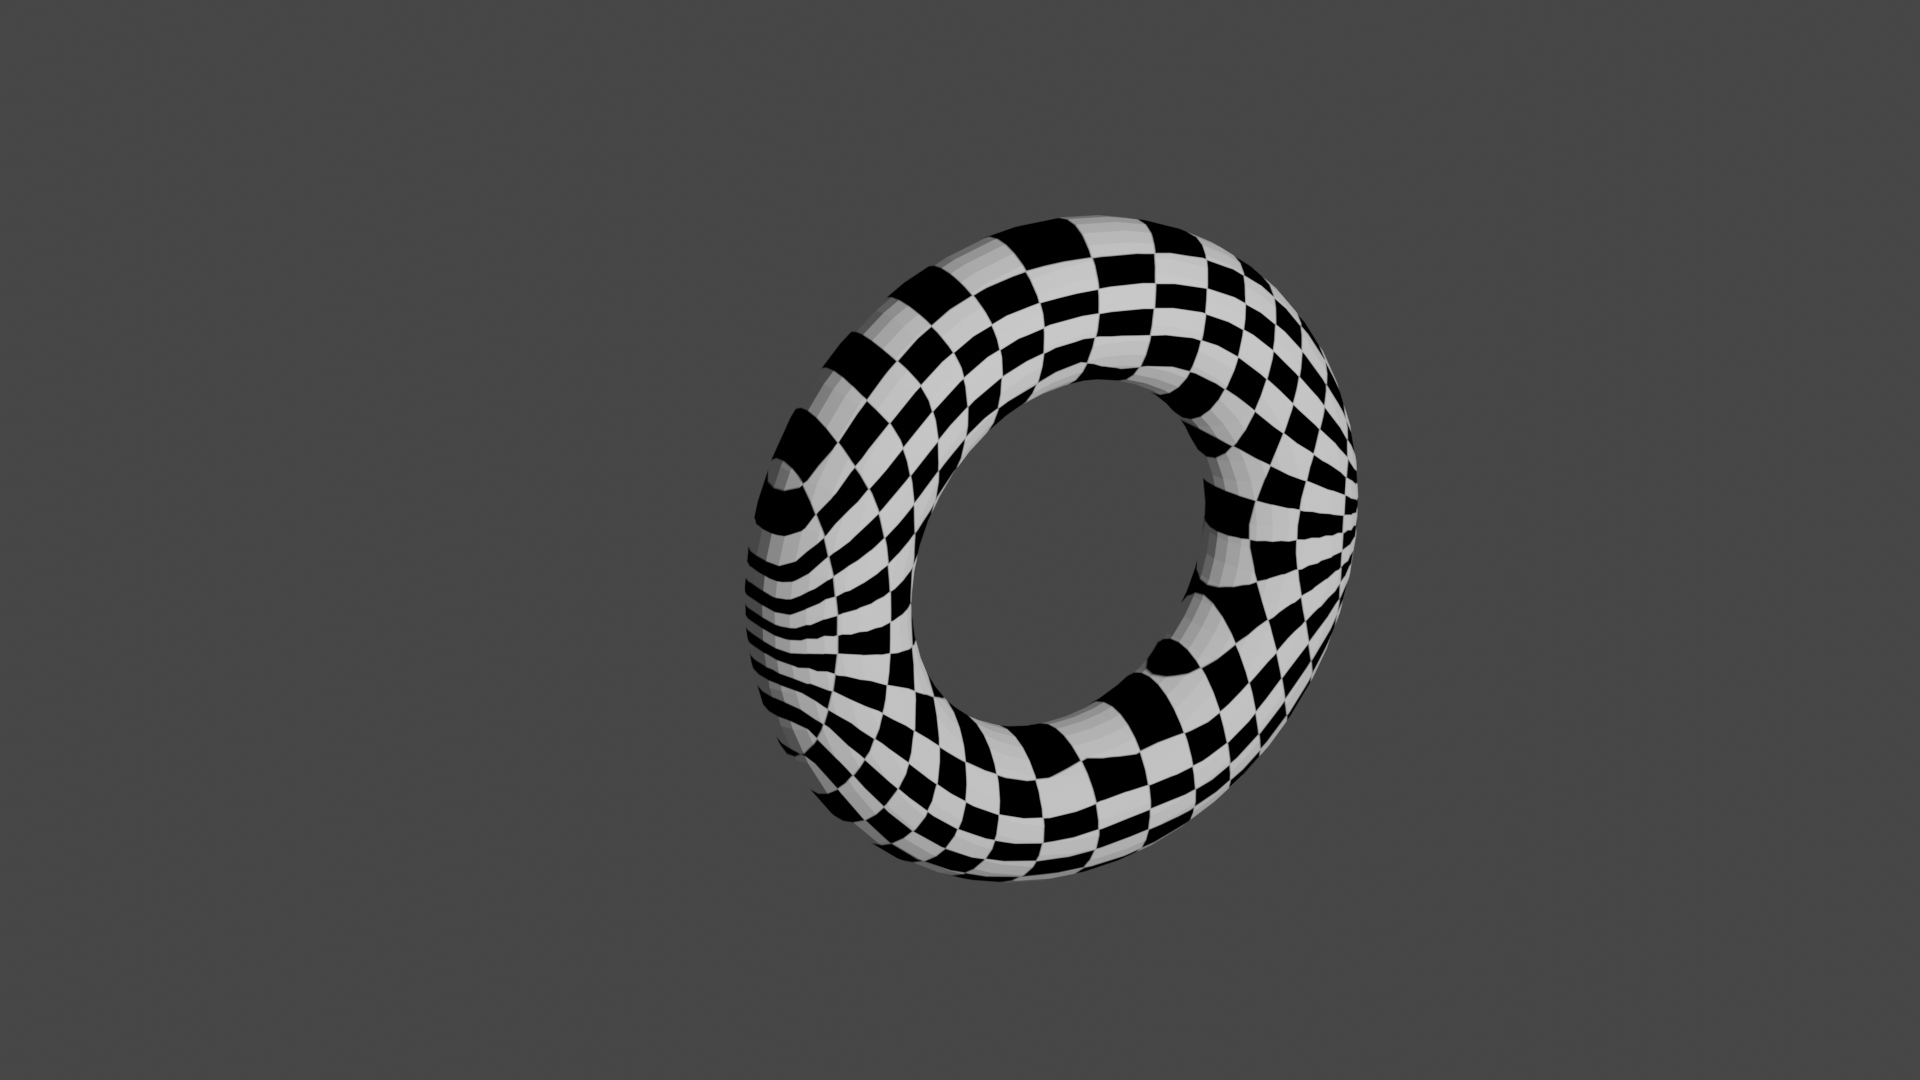
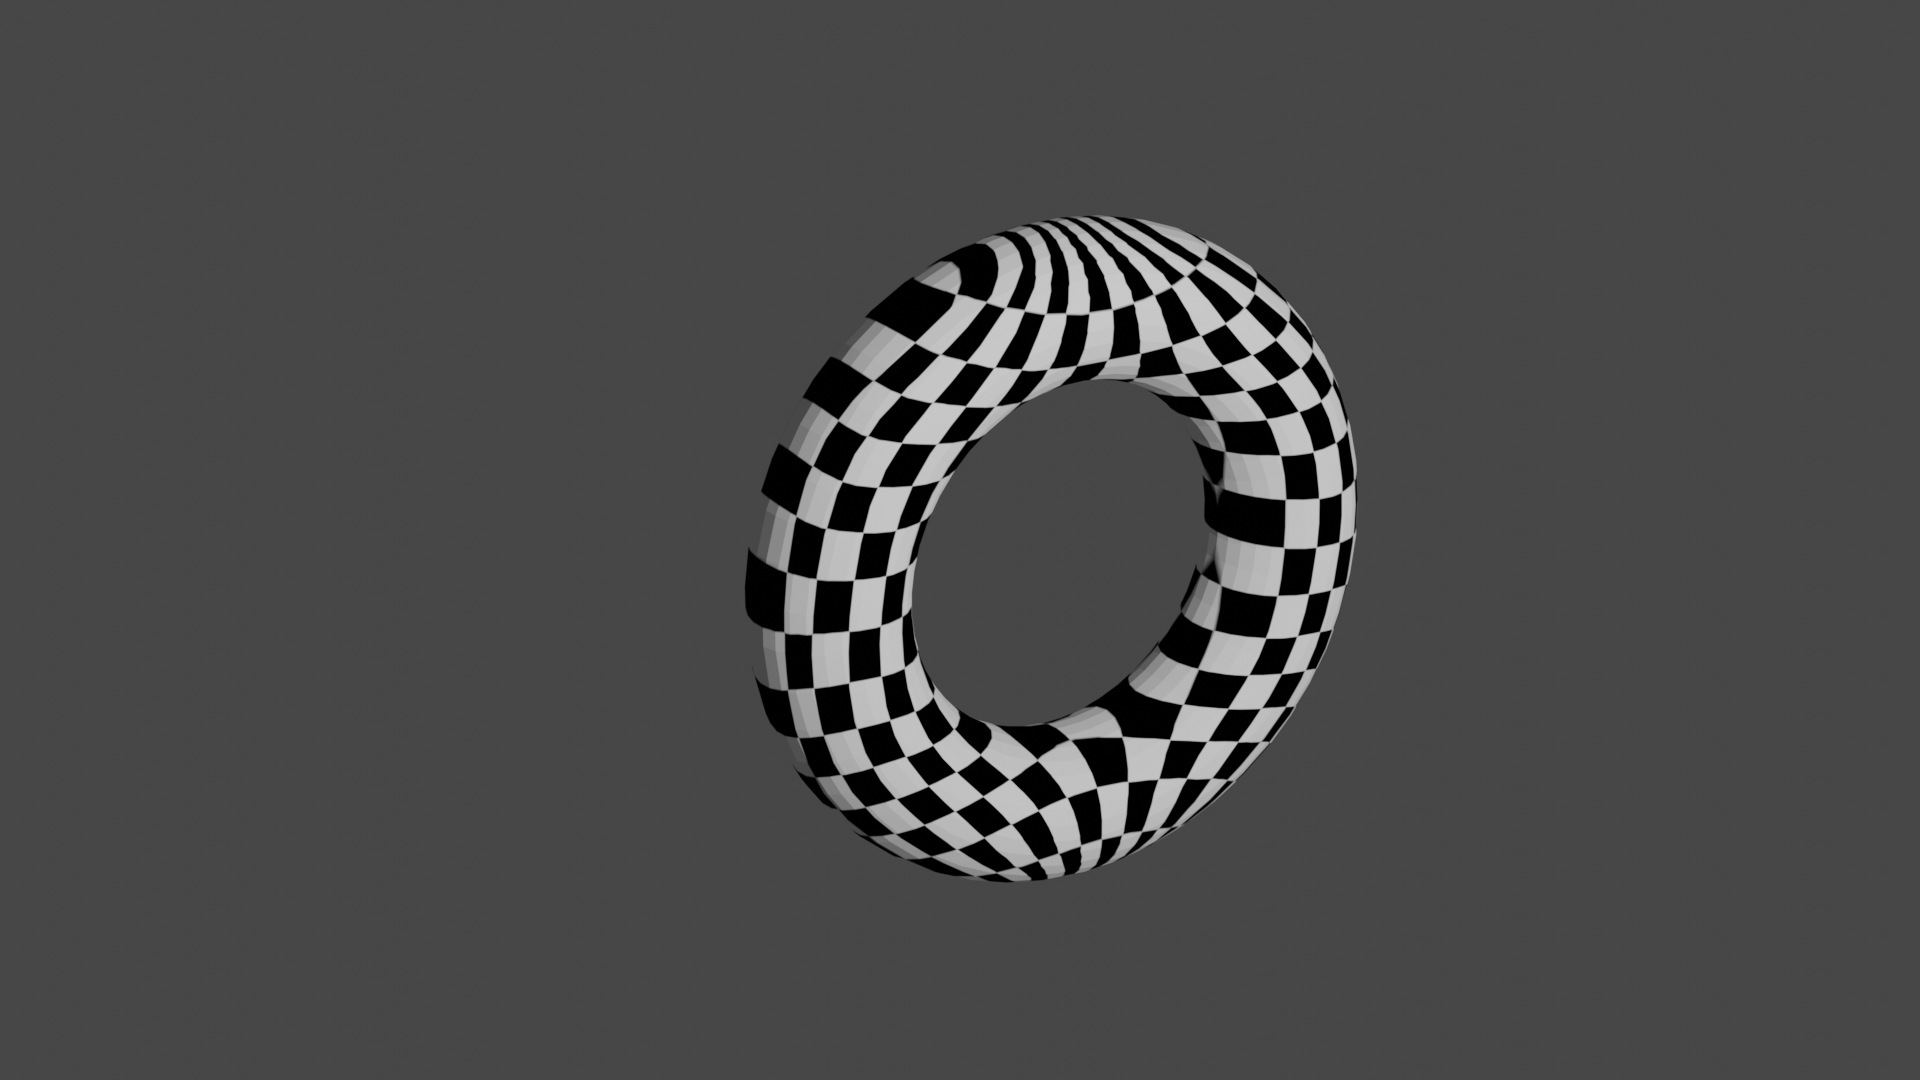
add mse loss writeup

Changed region(s): [[0.375, 0.1833, 0.7188, 0.825]]

diff --git a/README.md b/README.md
@@ -22,13 +22,21 @@ Some immediately obvious limitations:
 
 This was my first time using JAX. Nevertheless, I was able to get interesting results right out of the gate.
 
-Here is a torus with no orthogonality bonus:
-
-![Torus with no bonus](outputs/renders/torus_no_ortho.png)
-
-Here is a torus with a bonus for orthogonality (coefficient 0.001).
+Initially, I trained VAEs with a Gaussian loss on the decoder, and played around with an orthogonality bonus. This resulted in textures like this one:
 
 ![Torus with bonus](outputs/renders/torus_ortho.png)
+
+The above picture looks like a clean mapping, but something is wrong. To see why, let's sample from this VAE. In particular, we will map uniformly spaced points on the texture back to 3D space. In this case I'll use the mean prediction from the decoder, even though its output is a Gaussian distribution:
+
+![A flat disk with a hole in the middle](outputs/renders/torus_sample.png)
+
+It might be hard to tell from a single rendering, but this is just a flat disk with a hole in the middle. In particular, the VAE isn't encoding the z axis (i.e. thickness) at all, but rather just the x and y axes. I discovered that this caused by the Gaussian likelihood loss on the decoder. It is possible for the model to reduce this loss arbitrarily by shrinking the standard deviations of the x and y axes, so there is little incentive to actually capture every axis accurately.
+
+To achieve better results, we can drop the Gaussian likelihood loss and instead use pure MSE for the decoder. This isn't super well-principled, and we now have to select a reasonable coefficient for the KL term of the VAE to balance the reconstruction accuracy with the quality of the latent distribution. I found good hyperparameters for the torus, but these won't necessarily generalize.
+
+With the better reconstruction loss function, sampling the VAE gives the expected result:
+
+![The surface of a torus, point cloud](outputs/renders/torus_sample_mse.png)
 
 # Running
 
@@ -38,16 +46,36 @@ First, install the package with
 pip install -e .
 ```
 
-To train a VAE, run `scripts/train_vae.py` like so:
+My initial VAE experiments were run like so, via `scripts/train_vae.py`:
 
 ```shell
-python scripts/train_vae.py --ortho-loss 0.001 --num-iters 20000 models/torus.stl
+python scripts/train_vae.py --ortho-coeff 0.002 --num-iters 20000 models/torus.stl
 ```
 
-In the above command, the `--ortho-loss` flag controls the coefficient of the orthogonality bonus. This will save a model checkpoint to `vae.pkl` after 20000 iterations, which only takes a minute or two on a laptop CPU. Now you can export a 3D model with the resulting texture mapping like so:
+In the above command, the `--ortho-loss` flag controls the coefficient of the orthogonality bonus. This will save a model checkpoint to `vae.pkl` after 20000 iterations, which only takes a minute or two on a laptop CPU.
+
+The above will train a VAE with Gaussian reconstruction loss, which is not particularly useful as shown above. To instead use my best settings for the torus, try:
+
+```shell
+python scripts/train_vae.py --recon-loss-fn mse --kl-coeff 0.001 --batch-size 1024 --num-iters 20000 models/torus.stl
+```
+
+Once you have trained a VAE, you can export a 3D model with the resulting texture mapping like so:
 
 ```shell
 python scripts/map_vae.py models/torus.stl outputs/torus_ortho.obj
 ```
 
 Note that the resulting `.obj` file references a `material.mtl` file which should be in the same directory. I already include such a file with a checkerboard texture in [outputs/material.mtl](outputs/material.mtl).
+
+You can also sample a point cloud from the VAE using `point_cloud_gen.py`:
+
+```shell
+python scripts/point_cloud_gen.py outputs/point_cloud.obj
+```
+
+Finally, you can sample a texture mapping such that points on the texture are normalized (x,y,z) coordinates encoded as RGB:
+
+```shell
+python scripts/inv_map_vae.py models/torus.stl outputs/rgb_texture.png
+```
